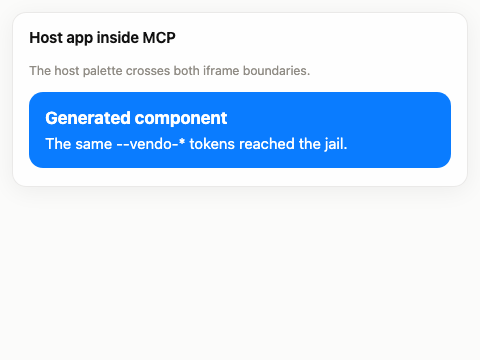
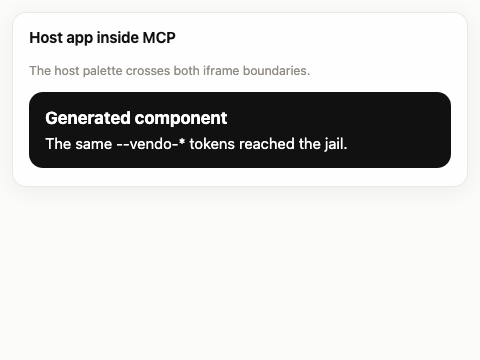
wave4 ci fixes: edge-path coverage for patch/reshape/print/shape-check (97.96% ≥ 97) + mcp-shim e2e on v2 named queries
Claude-Session: https://claude.ai/code/session_01L4NMMuSVVwKGyE721qyzDK

Changed region(s): [[0.0625, 0.2444, 0.9375, 0.4889]]

diff --git a/packages/core/src/wire-v2/patch.test.ts b/packages/core/src/wire-v2/patch.test.ts
@@ -281,3 +281,93 @@ describe("compileWirePatchV2 appliedOps", () => {
     expect(patch('<Edit><Query id="p" tool="t"/><Set id="pageheader-1" a="1"/></Edit>').appliedOps).toBe(2);
   });
 });
+
+/** Edge/defensive coverage: every skip/degrade path is exercised so the
+ *  totality claims stay pinned (CI coverage gate). */
+describe("compileWirePatchV2 edge paths", () => {
+  it("truncated <Edit tag, lone '<', and truncated ops degrade with issues", () => {
+    expect(codes(compileWirePatchV2("<Edit id=", base(), OPTIONS))).toEqual(["truncated-tag"]);
+    const lone = compileWirePatchV2("<Edit><", base(), OPTIONS);
+    expect(codes(lone)).toEqual(["truncated-tag", "eof-unclosed"]);
+    expect(codes(compileWirePatchV2('<Edit><Insert into="grid-1"', base(), OPTIONS))).toEqual(["truncated-tag", "eof-unclosed"]);
+    expect(codes(compileWirePatchV2('<Edit><Set id="pageheader-1"', base(), OPTIONS))).toEqual(["truncated-tag", "eof-unclosed"]);
+  });
+
+  it("bare text, stray closes, paired attribute-only ops, and self-closing Insert are contained", () => {
+    const result = patch('<Edit>hello</Nope><Remove id="button-1"><Card/></Remove><Insert into="grid-1"/></Edit>');
+    expect(codes(result)).toEqual(["invalid-patch-op", "stray-close-tag", "invalid-patch-op", "invalid-patch-op"]);
+    expect(node(result, "button-1")).toBeUndefined(); // paired Remove still applied
+    expect(node(result, "card-1")).toBeUndefined();   // its content skipped
+  });
+
+  it("bad indexes, root moves, valued Unset attrs, and non-string SetName are skipped loudly", () => {
+    expect(codes(patch('<Edit><Insert into="grid-1" at={1.5}><Card/></Insert></Edit>'))).toEqual(["invalid-patch-op"]);
+    expect(codes(patch('<Edit><Move id="button-1" into="grid-1" at={-1}/></Edit>'))).toEqual(["invalid-patch-op"]);
+    expect(codes(patch('<Edit><Move id="root" into="grid-1"/></Edit>'))).toEqual(["invalid-patch-op"]);
+    expect(codes(patch('<Edit><SetName name={5}/></Edit>'))).toEqual(["invalid-patch-op"]);
+    const valued = patch('<Edit><Unset id="pageheader-1" title="x"/></Edit>');
+    expect(codes(valued)).toEqual(["invalid-patch-op"]);
+    expect(node(valued, "pageheader-1")?.props?.title).toBe("Cash");
+  });
+
+  it("unknown RemoveQuery/RemoveIsland anchors are unknown-target", () => {
+    expect(codes(patch('<Edit><RemoveQuery id="nope"/></Edit>'))).toEqual(["unknown-target"]);
+    expect(codes(patch('<Edit><RemoveQuery id={5}/></Edit>'))).toEqual(["unknown-target"]);
+    expect(codes(patch('<Edit><RemoveIsland name="Nope"/></Edit>'))).toEqual(["unknown-target"]);
+  });
+
+  it("re-enforces the §8 query and island caps across base + patch", () => {
+    const manyQueries = compileWireV2(
+      `<App>${Array.from({ length: 16 }, (_, i) => `<Query id="q${i}" tool="t"/>`).join("")}<Card/></App>`,
+    );
+    const overQuery = compileWirePatchV2('<Edit><Query id="q_extra" tool="t"/></Edit>', manyQueries, {});
+    expect(codes(overQuery)).toEqual(["query-limit"]);
+    expect(overQuery.tree.queries).toHaveLength(16);
+
+    const manyIslands = compileWireV2(
+      `<App>${Array.from({ length: 16 }, (_, i) => `<Island name="Gen${i}">export default () => null;</Island>`).join("")}<Card/></App>`,
+    );
+    const overIsland = compileWirePatchV2('<Edit><Island name="GenExtra">export default () => null;</Island></Edit>', manyIslands, {});
+    expect(codes(overIsland)).toEqual(["component-limit"]);
+    expect(Object.keys(overIsland.components)).toHaveLength(16);
+    // Upsert of an EXISTING island replaces in place (no cap interaction).
+    const upsert = compileWirePatchV2('<Edit><Island name="Gen0">export default () => "v2";</Island></Edit>', manyIslands, {});
+    expect(upsert.issues).toEqual([]);
+    expect(upsert.components.Gen0).toContain("v2");
+  });
+
+  it("a hand-built base that re-validates invalid degrades to the base with patch-invalid", () => {
+    const badBase = {
+      tree: {
+        formatVersion: "vendo-genui/v2" as const,
+        root: "root",
+        nodes: [
+          { id: "root", component: "Stack" as const, children: ["bad-1"] },
+          { id: "bad-1", component: "Card", props: { v: { $path: "/x", $reshape: [{ op: "eval", args: [] }] } } },
+        ],
+      },
+      components: {},
+      name: "Bad",
+    };
+    const result = compileWirePatchV2('<Edit><SetName name="Renamed"/></Edit>', badBase as never, {});
+    expect(codes(result)).toEqual(["patch-invalid"]);
+    expect(result.tree).toBe(badBase.tree);
+    expect(result.complete).toBe(false);
+  });
+
+  it("an exploding base degrades through the compile-failed catch, never a throw", () => {
+    const hostile = {
+      tree: {
+        formatVersion: "vendo-genui/v2",
+        root: "root",
+        get nodes(): never {
+          throw new Error("boom");
+        },
+      },
+      components: {},
+    };
+    const result = compileWirePatchV2("<Edit/>", hostile as never, {});
+    expect(codes(result)).toEqual(["compile-failed"]);
+    expect(result.appliedOps).toBe(0);
+  });
+});

diff --git a/packages/core/src/reshape.test.ts b/packages/core/src/reshape.test.ts
@@ -250,3 +250,37 @@ describe("findInvalidReshape (the validateTreeV2 gate)", () => {
     })).toBeNull();
   });
 });
+
+describe("reshapeShape defensive regions", () => {
+  it("array-of-json regions pass every projection defensively", () => {
+    const arrayJson: ShapeType = { kind: "array", items: { kind: "json" } };
+    expect(reshapeShape(arrayJson, step("pick", "a"))).toEqual({ ok: true, shape: arrayJson });
+    expect(reshapeShape(arrayJson, step("rename", "a", "b"))).toEqual({ ok: true, shape: arrayJson });
+    expect(reshapeShape(arrayJson, step("format", "a", "currency"))).toEqual({ ok: true, shape: arrayJson });
+    expect(reshapeShape(arrayJson, step("asPoints", "a", "b"))).toEqual({
+      ok: true,
+      shape: { kind: "array", items: { kind: "object", fields: { label: { kind: "json" }, value: { kind: "json" } } } },
+    });
+    expect(reshapeShape(arrayJson, step("sum", "a"))).toEqual({ ok: true, shape: { kind: "number" } });
+  });
+
+  it("bare-object pick/rename/format flow without an array wrapper", () => {
+    const object: ShapeType = { kind: "object", fields: { a: { kind: "number" }, b: { kind: "string" } } };
+    expect(reshapeShape(object, step("rename", "a", "x"))).toEqual({
+      ok: true,
+      shape: { kind: "object", fields: { x: { kind: "number" }, b: { kind: "string" } } },
+    });
+    expect(reshapeShape(object, step("format", "a", "currency"))).toEqual({
+      ok: true,
+      shape: { kind: "object", fields: { a: { kind: "string" }, b: { kind: "string" } } },
+    });
+    expect(reshapeShape(object, step("format", "b", "date"))).toEqual({
+      ok: true,
+      shape: { kind: "object", fields: { a: { kind: "number" }, b: { kind: "string" } } },
+    });
+  });
+
+  it("structurally invalid steps report the structural violation", () => {
+    expect(reshapeShape({ kind: "json" }, { op: "eval", args: [] } as never).ok).toBe(false);
+  });
+});

diff --git a/packages/core/src/wire-v2/compile.test.ts b/packages/core/src/wire-v2/compile.test.ts
@@ -1081,3 +1081,24 @@ describe("compileWireV2 shape check (v2 spec §3)", () => {
     expect(codes(result)).toEqual(["shape-mismatch"]);
   });
 });
+
+describe("compileWireV2 shape check pointer misses", () => {
+  it("a non-index segment into an array and a pointer past a scalar report shaped messages", () => {
+    const shapes: WireCompileOptions = {
+      toolShapes: {
+        t: {
+          kind: "object",
+          fields: {
+            rows: { kind: "array", items: { kind: "object", fields: { n: { kind: "number" } } } },
+            total: { kind: "number" },
+          },
+        },
+      },
+    };
+    const wire = (binding: string): string => `<App><Query id="q" tool="t"/><Card v={${binding}}/></App>`;
+    const nonIndex = compileWireV2(wire("q.rows.month"), shapes);
+    expect(nonIndex.bindingErrors[0]?.message).toContain("indexes into an array");
+    const pastScalar = compileWireV2(wire("q.total.deep"), shapes);
+    expect(pastScalar.bindingErrors[0]?.message).toContain("goes past");
+  });
+});

diff --git a/packages/core/src/wire-v2/print.test.ts b/packages/core/src/wire-v2/print.test.ts
@@ -104,3 +104,13 @@ describe("printWireV2 forms", () => {
     expect(recompiled.tree).toStrictEqual(tree);
   });
 });
+
+describe("printWireV2 totality fallbacks", () => {
+  it("prints non-Json prop values as null instead of throwing", () => {
+    const base = compileWireV2("<App><Card/></App>");
+    const tree = structuredClone(base.tree);
+    (tree.nodes[1] as { props?: Record<string, unknown> }).props = { broken: undefined };
+    const printed = printWireV2({ ...base, tree: tree as typeof base.tree }, { includeIds: false });
+    expect(printed).toContain("broken={null}");
+  });
+});

diff --git a/packages/ui/e2e/mcp-shim.spec.ts b/packages/ui/e2e/mcp-shim.spec.ts
@@ -1,18 +1,18 @@
 import { expect, test, type Page } from "@playwright/test";
-import type { Tree, UIPayload, VendoTheme } from "@vendoai/core";
+import type { UIPayload, VendoTheme } from "@vendoai/core";
 import { mkdir, readFile } from "node:fs/promises";
 import { fileURLToPath } from "node:url";
 import { themeCssVariables } from "../src/theme.js";
 import { browserTreeFixture } from "./fixtures/tree.js";
 
-const shimTree: Tree = {
+const shimTree = {
   ...browserTreeFixture,
-  queries: [{ path: "/invoice/total", tool: "host_invoice_total", input: { invoiceId: "inv_42" } }],
+  queries: [{ name: "total", tool: "host_invoice_total", input: { invoiceId: "inv_42" } }],
   nodes: [
     ...browserTreeFixture.nodes.map((node) => node.id === "root"
       ? { ...node, children: [...(node.children ?? []), "query-value", "shim-action"] }
       : node),
-    { id: "query-value", component: "Text", props: { text: { $path: "/invoice/total" } } },
+    { id: "query-value", component: "Text", props: { text: { $path: "/total" } } },
     {
       id: "shim-action",
       component: "ShimAction",
@@ -27,7 +27,7 @@ const shimTree: Tree = {
   },
 };
 
-const themeProofTree: Tree = {
+const themeProofTree = {
   formatVersion: "vendo-genui/v2",
   root: "root",
   nodes: [

diff --git a/fixtures/host-app/next-env.d.ts b/fixtures/host-app/next-env.d.ts
@@ -1,7 +1,7 @@
 /// <reference types="next" />
 /// <reference types="next/image-types/global" />
 /// <reference types="next/navigation-types/compat/navigation" />
-import "./.next/integration-e2e/dev/types/routes.d.ts";
+import "./.next/redteam-e2e/dev/types/routes.d.ts";
 
 // NOTE: This file should not be edited
 // see https://nextjs.org/docs/app/api-reference/config/typescript for more information.